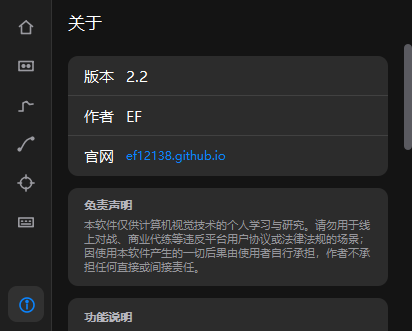
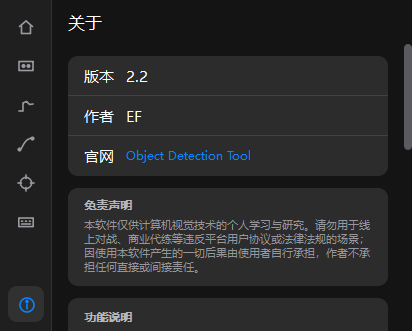
关于页：官网链接文字显示为 Object Detection Tool

Changed region(s): [[0.2913, 0.4532, 0.6117, 0.4834]]

diff --git a/ScreenCaptureWidget.cpp b/ScreenCaptureWidget.cpp
@@ -13,7 +13,6 @@
 #include <QScrollArea>
 #include <QFrame>
 #include <QFontMetrics>
-#include <QUrl>
 #include <QLineEdit>
 #include <QRadioButton>
 #include <QButtonGroup>
@@ -573,19 +572,26 @@ QString projectUrl() {
     return QStringLiteral("https://ef12138.github.io/Object-Detection-Tool-Cpp/");
 }
 
+// 官网在关于页里显示的名字：用产品名，而不是一串域名
+QString aboutSiteName() {
+    return QStringLiteral("Object Detection Tool");
+}
+
 // 链接文字：QSS 的 color 管不到富文本里的 <a>（锚点走的是 QPalette::Link），
 // 所以颜色必须写进 HTML，换主题时重新拼一遍。
-// 显示文字去掉了 scheme：仓库类地址只留 owner/repo，其它站点只留 host，
+// 显示文字去掉了 scheme：官网用产品名，仓库类地址只留 owner/repo，
 // 因为卡片里能用的宽度约 200px，整条 https 地址会顶出卡片右边（实测会被裁掉结尾）。
 QString aboutLinkHtml(const QString& url, const QColor& color) {
-    const QUrl parsed(url);
     QString shown;
-    if (!parsed.host().isEmpty() && !parsed.host().endsWith(QStringLiteral("github.com"))) {
-        // 官网：github.io 这类站点的路径又长又和仓库同名，只显示域名更清楚
-        shown = parsed.host();
+    auto trimSlash = [](QString s) {
+        while (s.endsWith(QLatin1Char('/'))) s.chop(1);
+        return s;
+    };
+    if (trimSlash(url) == trimSlash(projectUrl())) {
+        // 官网：域名 + 仓库同名路径放在卡片里既长又容易和仓库混淆，直接写产品名
+        shown = aboutSiteName();
     } else {
-        shown = url;
-        while (shown.endsWith(QLatin1Char('/'))) shown.chop(1);
+        shown = trimSlash(url);
         const int slash = shown.lastIndexOf(QLatin1Char('/'));
         if (slash >= 0) shown = shown.mid(slash + 1);
     }
